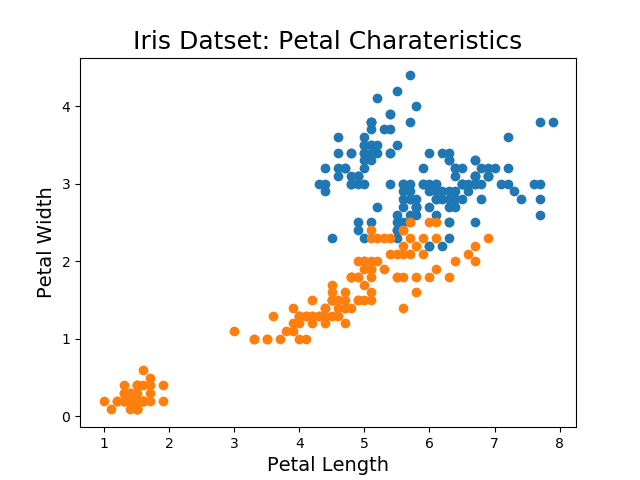
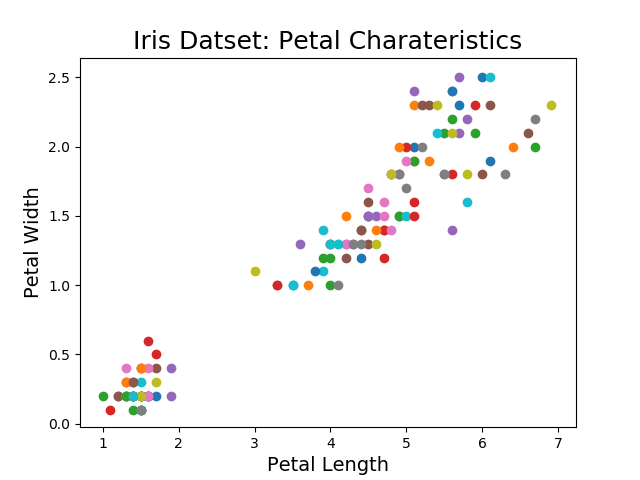
further work

diff --git a/irisdataset.py b/irisdataset.py
@@ -7,6 +7,8 @@ import numpy as np
 import pandas as pd
 import matplotlib.pyplot as plt
 import csv
+
+
 data = pd.read_csv("iris.csv", header=-1) 
 #set header =-1 as data in row 0
 A = np.array (data)
@@ -16,7 +18,7 @@ avg_col = sum_col/150
 
 print (data)
 
-f = open('generalstats.txt','w')
+#f = open('generalstats.txt','w')
 
 print('\n'*2)
 
@@ -61,6 +63,9 @@ print (data[4].value_counts())
 
 print('\n')
 
+# below uses the describe function to produce some statistics of the Iris dataset
+# it is displayed and also saved to csv file summary.csv
+
 summary = data.groupby(4)[0].describe()
 
 print('\n')
@@ -70,7 +75,8 @@ summary.to_csv('summary.csv')
 
 # Below uses  matplotlib.pyplot to produce and save scatter graphs
 
-##plt.ioff()###turns off interactieve display
+   
+## plt.ioff()
 
 # Sepal characteristics
 x, y =[A[:,0],A[:,1]] 
@@ -79,16 +85,37 @@ plt.ylabel("Sepal Width", fontsize = 14)
 plt.title("Iris Datset: Sepal Charateristics", fontsize = 18)
 plt.scatter(x, y)
 plt.savefig ('Sepal.png')
-##plt.show ()
+plt.show ()
 ## note: must save before show as otherwise blank file!
 
 # Petal charateristics
-x, y =[A[:,2],A[:,3]] 
-plt.colors 
+
+for i in range (0,len(A)-1):
+    x, y =[A[i][2],A[i][3]] 
+    ##flower = flower_type[i].decode("utf-8")
+	##color = ""
+
+    flower = A[i][4]
+    color = ""
+    if flower=='Iris-setosa':
+        color ="red"
+    elif flower=='Iris-versicolor':
+        color="blue"
+    elif flower=='Iris-virginica':
+        color = "green"
+        print (flower)
+        print(x,y)
+   
+    plt.scatter(x, y)
+
+#plt.colors(A[:,4]=="Iris-versicolor",color="blue
+# ")
+#plt.colors(A[:,4]=="Iris-virginica",color="red")
 plt.xlabel('Petal Length', fontsize = 14)
 plt.ylabel("Petal Width", fontsize = 14)
 plt.title("Iris Datset: Petal Charateristics", fontsize = 18)
-plt.scatter(x, y)
-plt.savefig ('Petal.png')
-##plt.show ()
+#    plt.scatter(x, y)
+##plt.savefig ('Petal.png')
+plt.show ()
+
 
